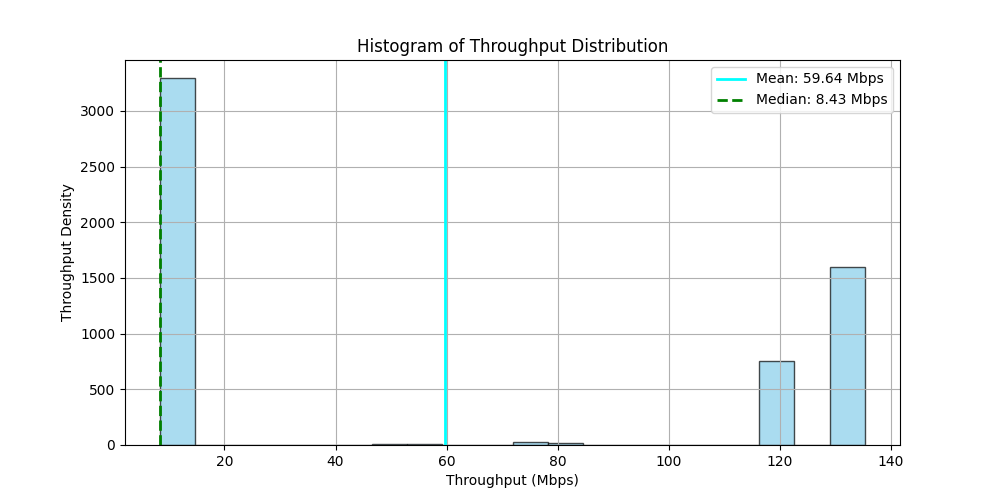
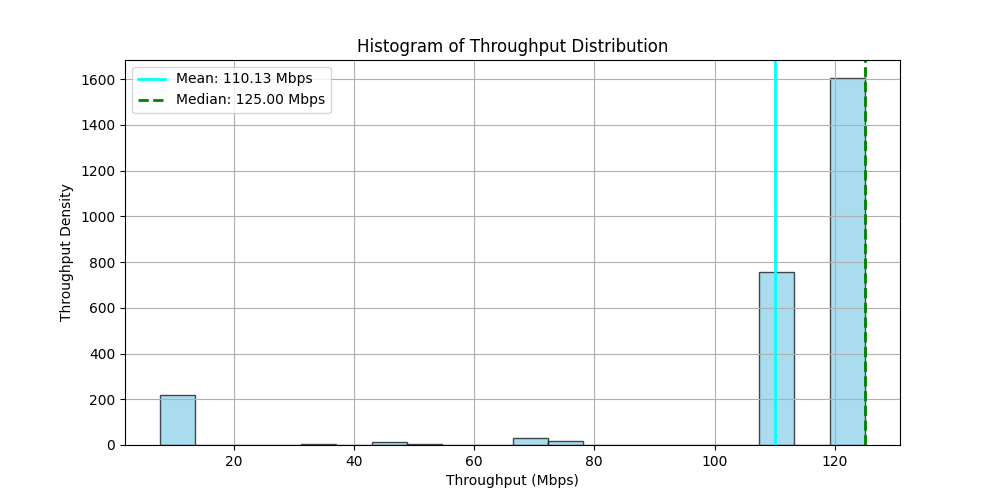
added the data frames filter

diff --git a/parser.py b/parser.py
@@ -35,7 +35,7 @@ class Parser:
         if density:
             capture = pyshark.FileCapture(self.file_path, display_filter=display)
         else: 
-            capture = pyshark.FileCapture(self.file_path, display_filter="wlan")
+            capture = pyshark.FileCapture(self.file_path, display_filter="wlan.fc.type == 2")
         parsed_data = []
         
         for index, packet in enumerate(capture):
